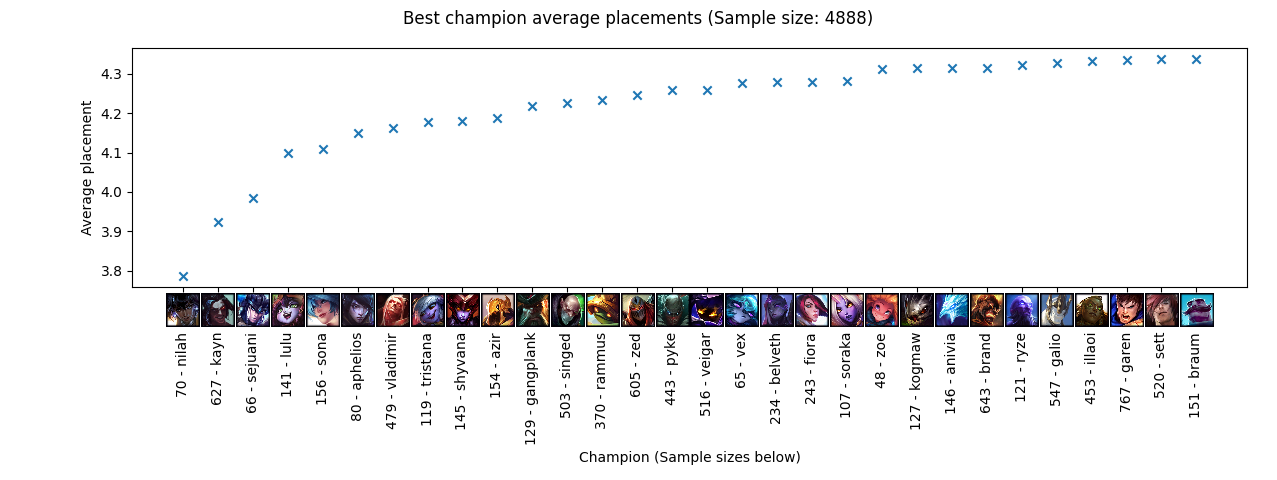
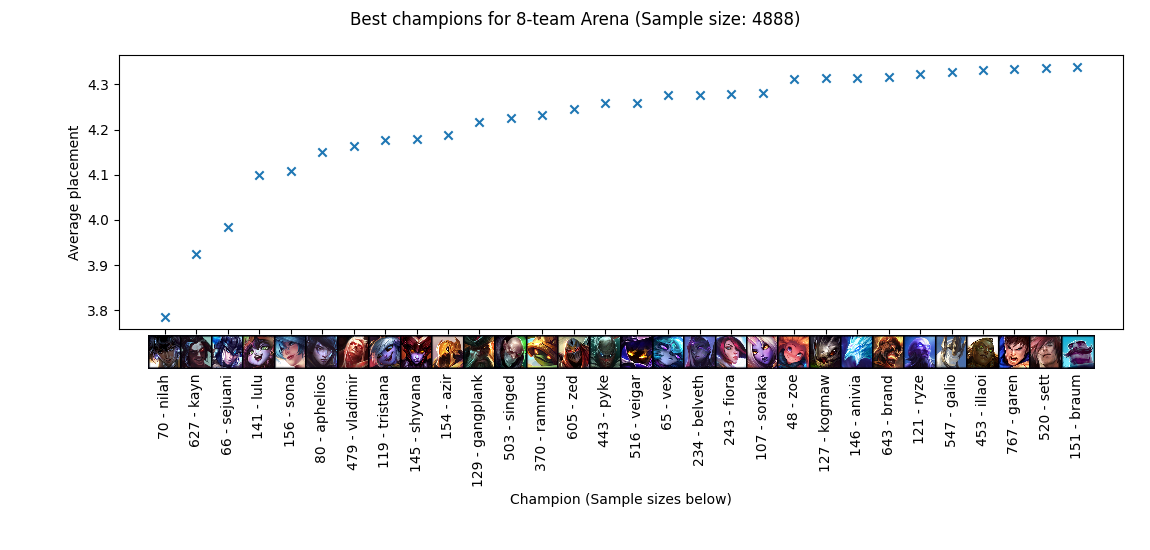
Changelist:
- Improved the best champion winrate graph

diff --git a/src/arena_pipeline.py b/src/arena_pipeline.py
@@ -158,7 +158,7 @@ class ArenaPipeline:
         champion_names_labels = [f"{str(round(sample_size, 0))[:-2]} - {champion_name}" + " " * 8
                                  for sample_size, champion_name in zip(sample_sizes, champion_names)]
         ax.scatter(champion_names_labels, ranks, marker='x')
-        fig.suptitle(f"Best champion average placements (Sample size: {number_of_samples})")
+        fig.suptitle(f"Best champions for {self.number_of_teams}-team Arena (Sample size: {number_of_samples})")
         ax.set_ylabel("Average placement")
         ax.tick_params(axis='x', rotation=90)
         y_offset, _ = ax.get_ylim()
@@ -177,6 +177,7 @@ class ArenaPipeline:
 
         ax.set_xlabel("Champion (Sample sizes below)")
         fig.tight_layout()
+        fig.set_size_inches(11.5, 5.5)
+        fig.savefig(f"{display_number} best champions in arena{self.number_of_teams}.png")
         plt.show()
-
         return None

diff --git a/pipeline_team8.py b/pipeline_team8.py
@@ -5,8 +5,8 @@ from src.arena_pipeline import ArenaPipeline
 config = dotenv_values(".env")
 DISPLAY_NUMBER = 30
 NUMBER_OF_TEAMS = 8
-CHAMPION_PLACEMENTS_FILE_PATH = "champion_placements_team8.csv"
-RECORDED_GAMES_FILE_PATH = "recorded_games_team8.csv"
+CHAMPION_PLACEMENTS_FILE_PATH = f"champion_placements_team{NUMBER_OF_TEAMS}.csv"
+RECORDED_GAMES_FILE_PATH = f"recorded_games_team{NUMBER_OF_TEAMS}.csv"
 CHAMPION_ICONS_DIR_PATH = "src/champion_icons"
 
 
